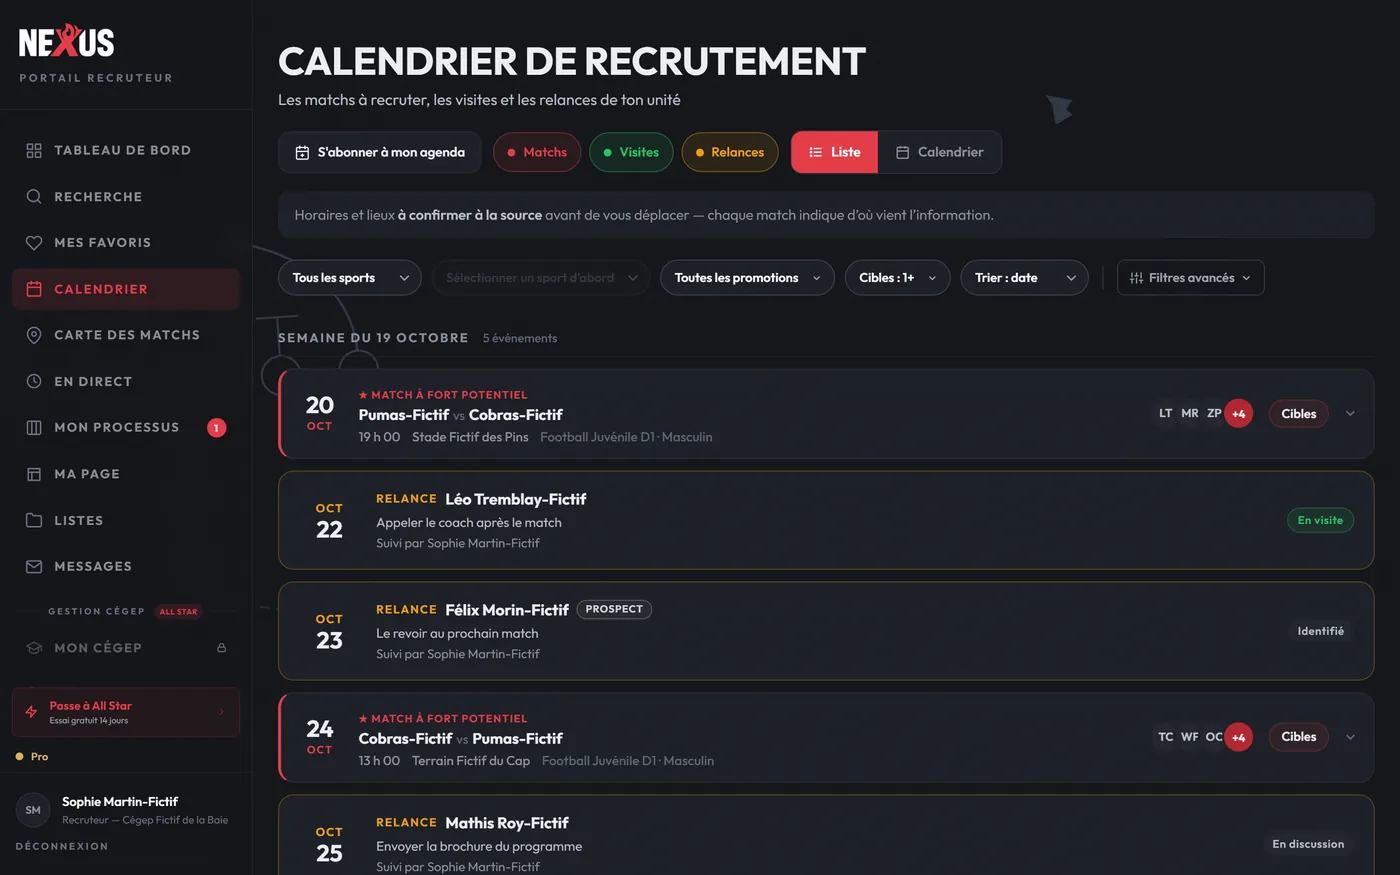
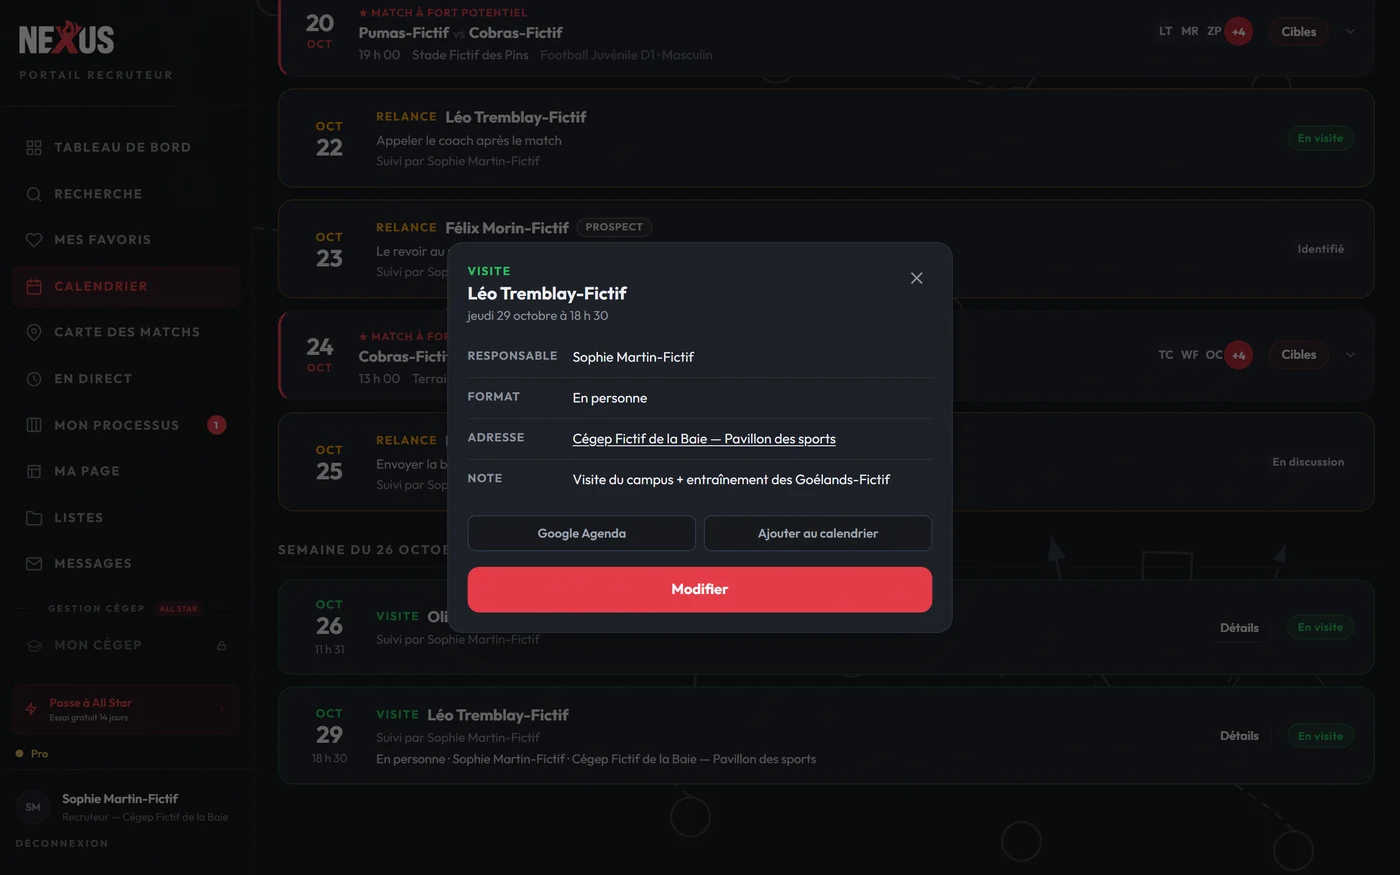
Page recruteur : En direct, matchs, calendrier et prospects montrés tels qu'ils sont
Retour de BP, pour la page des clients payants :
- En direct : la capture d'appli est remplacée par l'écran web
  (/recruteur/game-on) en plein match fictif : les numéros de chandail,
  la fiche du no 7 reconnu sur Nexus et ses notes prises pendant le match
  (hors ligne, rien d'envoyé). Points : une note par numéro, joueur
  reconnu par son numéro, hors ligne, partagé avec l'unité.
- Matchs et Calendrier deviennent deux rangées. Matchs : la carte avec un
  match ouvert (terrain, ligue, profils Nexus, athlètes suivis) ;
  secondaire, collégial et civil. Calendrier : les détails d'une visite
  (responsable, format, adresse ou lien Zoom, note), l'ajout ponctuel à
  Google Agenda ou en .ics, et l'abonnement d'agenda Google / Outlook /
  Apple (seconde capture).
- Prospects : au rapprochement accepté, l'étape, la relance, la date de
  visite, le drapeau, la cote, les notes et les listes de la carte passent
  au profil (fusionner_carte) ; le suivi existant de l'unité reste, l'étape
  la plus avancée l'emporte ; annulable 7 jours.
FR et EN, vouvoiement.

Claude-Session: https://claude.ai/code/session_013o7Wv57hFYFdBbmrt469eo

diff --git a/lib/i18n/dictionaries.ts b/lib/i18n/dictionaries.ts
@@ -124,7 +124,7 @@ export interface Dictionary {
     /** Page recruteur v2 (BP 2026-10-20) : héros + une section par fonction, avec capture. */
     v2: {
       hero: { eyebrow: string; title1: string; title2: string; lede: string; cta: string; ctaSecondary: string };
-      fonctions: { eyebrow: string; title1: string; title2: string; items: { kicker: string; title: string; points: string[]; alt: string }[] };
+      fonctions: { eyebrow: string; title1: string; title2: string; items: { kicker: string; title: string; points: string[]; alt: string; altExtra?: string }[] };
     };
     hero: {
       eyebrow: string;
@@ -819,9 +819,10 @@ export const dictionaries: Record<Lang, Dictionary> = {
           items: [
             { kicker: "Recherche", title: "Recherche et filtres", points: ["Sport, position, promotion, ligue, division", "Moyenne, mentions, préférences de cégep", "Profils vérifiés par le coach, avec vidéo, avec distinction"], alt: "Recherche d'athlètes avec ses filtres" },
             { kicker: "Mon processus", title: "Votre processus, étape par étape", points: ["Les étapes, d'« Identifié » à « Lettre signée »", "Votre grade, de A+ à E, et vos notes", "« Retiré », avec sa raison : l'historique reste"], alt: "Mon processus : colonnes par étape, grades et notes" },
-            { kicker: "En direct", title: "Dépistez pendant le match", points: ["Une note par numéro de chandail", "Hors ligne : ça fonctionne même sans réseau", "Partagé avec votre unité, trié après le match"], alt: "En direct : notes par numéro de chandail pendant un match" },
-            { kicker: "Matchs", title: "Carte des matchs et calendrier", points: ["Les matchs près de vous, sur une carte", "Votre calendrier de visites", "Une visite s'envoie à Google Agenda ou Outlook"], alt: "Calendrier des matchs et des visites" },
-            { kicker: "Prospects", title: "Des cartes pour les joueurs pas encore inscrits", points: ["Créez une carte pour un joueur repéré, modifiez-la", "Quand il s'inscrit, Nexus vous propose de la rapprocher de son vrai profil"], alt: "Rapprochement d'une carte de prospect avec un profil Nexus" },
+            { kicker: "En direct", title: "Vos notes, pendant le match", points: ["Une note par numéro de chandail, au moment où vous la voyez", "Un joueur déjà sur Nexus est reconnu par son numéro : vos notes iront à sa fiche", "Hors ligne : ça fonctionne même sans réseau", "Partagé avec votre unité, trié après le match"], alt: "En direct, sur le web : les numéros de chandail d'une équipe et la fiche du no 7, avec les notes prises pendant le match (données fictives)" },
+            { kicker: "Matchs", title: "Tous les matchs, sur une seule carte", points: ["Secondaire, collégial et civil : les matchs de plusieurs ligues au même endroit", "Filtrez par date, sport, catégorie et division", "Chaque match montre les profils Nexus qui y jouent, dont vos athlètes suivis", "Un « + » l'ajoute à votre calendrier"], alt: "Carte des matchs : un match ouvert, avec son terrain, sa ligue et les profils Nexus qui y jouent (données fictives)" },
+            { kicker: "Calendrier", title: "Votre calendrier de visites", points: ["Les matchs de vos athlètes suivis, les visites et les relances de votre unité, au même endroit", "Chaque visite garde ses détails, modifiables sur place : responsable, format, adresse ou lien Zoom, note", "Une visite s'ajoute d'un clic à Google Agenda ou à votre calendrier", "Ou abonnez votre agenda Google, Outlook ou Apple : relances, visites et matchs s'y ajoutent et se mettent à jour"], alt: "Calendrier de recrutement : les détails d'une visite planifiée, avec les boutons Google Agenda et Ajouter au calendrier (données fictives)", altExtra: "S'abonner à mon agenda : Google Agenda, Outlook, ou Apple et autres agendas" },
+            { kicker: "Prospects", title: "Des cartes pour les joueurs pas encore inscrits", points: ["Créez une carte pour un joueur repéré, modifiez-la", "Quand il s'inscrit, Nexus vous propose de la rapprocher de son vrai profil", "Vous acceptez : l'étape, la relance, la date de visite, le drapeau, la cote, les notes et les listes de la carte passent à son profil, automatiquement", "Si votre unité le suivait déjà, son suivi reste en place et l'étape la plus avancée l'emporte. Annulable pendant 7 jours"], alt: "Rapprochement d'une carte de prospect avec un profil Nexus (données fictives)" },
             { kicker: "Listes", title: "Vos listes, avec vos notes", points: ["Regroupez vos athlètes comme vous voulez", "Une note privée sur chacun"], alt: "Une liste d'athlètes avec ses notes" },
             { kicker: "Règles", title: "Les périodes sans contact, respectées", points: ["Pendant une période sans contact, Nexus vous le signale sur le profil", "Vous pouvez toujours écrire à l'entraîneur"], alt: "Avis de période sans contact sur un profil d'athlète" },
           ],
@@ -1746,9 +1747,10 @@ export const dictionaries: Record<Lang, Dictionary> = {
           items: [
             { kicker: "Search", title: "Search and filters", points: ["Sport, position, class, league, division", "GPA, honours, CÉGEP preferences", "Coach-verified profiles, with video, with distinctions"], alt: "Athlete search with its filters" },
             { kicker: "My process", title: "Your process, step by step", points: ["Stages, from \"Identified\" to \"Letter signed\"", "Your grade, from A+ to E, and your notes", "\"Withdrawn\", with its reason: the history stays"], alt: "My process: columns by stage, grades and notes" },
-            { kicker: "Live", title: "Scout during the game", points: ["One note per jersey number", "Offline: works without a signal", "Shared with your staff, sorted after the game"], alt: "Live: notes by jersey number during a game" },
-            { kicker: "Games", title: "Game map and calendar", points: ["Games near you, on a map", "Your visit calendar", "Send a visit to Google Calendar or Outlook"], alt: "Game and visit calendar" },
-            { kicker: "Prospects", title: "Cards for players not signed up yet", points: ["Create a card for a player you spotted, edit it", "When they sign up, Nexus offers to match it to their real profile"], alt: "Matching a prospect card with a Nexus profile" },
+            { kicker: "Live", title: "Your notes, during the game", points: ["One note per jersey number, the moment you see it", "A player already on Nexus is recognized by his number: your notes will go to his file", "Offline: works without a signal", "Shared with your staff, sorted after the game"], alt: "Live, on the web: a team's jersey numbers and the file for #7, with notes taken during the game (fictional data)" },
+            { kicker: "Games", title: "Every game, on one map", points: ["High school, college and club: games from several leagues in one place", "Filter by date, sport, age group and division", "Each game shows the Nexus profiles playing in it, including the athletes you follow", "A \"+\" adds it to your calendar"], alt: "Game map: an open game, with its venue, its league and the Nexus profiles playing in it (fictional data)" },
+            { kicker: "Calendar", title: "Your visit calendar", points: ["Games of the athletes you follow, plus your staff's visits and follow-ups, in one place", "Each visit keeps its details, editable on the spot: who is in charge, format, address or Zoom link, note", "Add a visit to Google Calendar or your own calendar in one click", "Or subscribe from Google, Outlook or Apple: follow-ups, visits and games are added and kept up to date"], alt: "Recruiting calendar: details of a planned visit, with the Google Calendar and Add to calendar buttons (fictional data)", altExtra: "Subscribe to my calendar: Google Calendar, Outlook, or Apple and other calendars" },
+            { kicker: "Prospects", title: "Cards for players not signed up yet", points: ["Create a card for a player you spotted, edit it", "When they sign up, Nexus offers to match it to their real profile", "You accept: the card's stage, follow-up, visit date, flag, grade, notes and lists move to the real profile, automatically", "If your staff already followed the player, that follow-up stays and the most advanced stage wins. Can be undone for 7 days"], alt: "Matching a prospect card with a Nexus profile (fictional data)" },
             { kicker: "Lists", title: "Your lists, with your notes", points: ["Group your athletes any way you like", "A private note on each one"], alt: "A list of athletes with its notes" },
             { kicker: "Rules", title: "No-contact periods, respected", points: ["During a no-contact period, Nexus flags it on the profile", "You can always write to the coach"], alt: "No-contact period notice on an athlete profile" },
           ],

diff --git a/components/marketing/recruteurs/SectionsRecruteur.tsx b/components/marketing/recruteurs/SectionsRecruteur.tsx
@@ -13,16 +13,19 @@ import { useTranslation } from "@/lib/i18n/useTranslation";
 
 const label = "text-[10px] font-bold tracking-[0.25em] uppercase";
 
-/** Les captures, dans l'ordre du dictionnaire. `mobile` : capture d'appli, cadrée comme un téléphone. */
-const CAPTURES = [
+/** Les captures, dans l'ordre du dictionnaire. `mobile` : capture d'appli, cadrée comme un téléphone.
+ *  `extra` : une seconde capture, plus petite, sous la première (son texte : `altExtra`).
+ *  Retour BP (v2c) : En direct, Matchs et Calendrier en captures WEB (maquettes/pages-v2c/outils/). */
+const CAPTURES: readonly { src: string; w: number; h: number; mobile?: boolean; extra?: { src: string; w: number; h: number } }[] = [
   { src: "recherche", w: 1400, h: 875 },
   { src: "processus", w: 1400, h: 875 },
-  { src: "en-direct", w: 600, h: 1298, mobile: true },
-  { src: "calendrier", w: 1400, h: 875 },
+  { src: "en-direct", w: 1400, h: 875 },
+  { src: "matchs", w: 1400, h: 852 },
+  { src: "calendrier", w: 1400, h: 875, extra: { src: "agenda", w: 1200, h: 493 } },
   { src: "prospects", w: 1400, h: 875 },
   { src: "listes", w: 1400, h: 875 },
   { src: "non-contact", w: 1200, h: 835 },
-] as const;
+]
 
 function Etiquette({ children }: { children: React.ReactNode }) {
   return (
@@ -103,7 +106,7 @@ export default function SectionsRecruteur() {
           {V.fonctions.items.map((f, i) => {
             const c = CAPTURES[i];
             const inverse = i % 2 === 1;
-            const mobile = "mobile" in c && c.mobile;
+            const mobile = !!c.mobile;
             return (
               <div key={f.title} className="grid gap-8 lg:gap-14 items-center py-16 lg:py-20 border-b border-white/[0.06] last:border-b-0 lg:grid-cols-12">
                 <div className={`lg:col-span-5 ${inverse ? "lg:order-2" : ""}`}>
@@ -130,6 +133,18 @@ export default function SectionsRecruteur() {
                       ? "w-[280px] h-auto self-start rounded-t-[22px] border border-b-0 border-white/[0.1]"
                       : "w-full h-auto rounded-xl border border-white/[0.08] shadow-[0_30px_80px_rgba(0,0,0,0.45)]"}
                   />
+                  {c.extra && f.altExtra && (
+                    /* eslint-disable-next-line @next/next/no-img-element -- export statique : pas d'optimiseur d'images */
+                    <img
+                      src={`/images/recruteur/${c.extra.src}.webp`}
+                      alt={f.altExtra}
+                      width={c.extra.w}
+                      height={c.extra.h}
+                      loading="lazy"
+                      decoding="async"
+                      className="mt-4 w-full sm:ml-auto sm:w-[88%] h-auto rounded-xl border border-white/[0.08] shadow-[0_30px_80px_rgba(0,0,0,0.45)]"
+                    />
+                  )}
                 </div>
               </div>
             );
